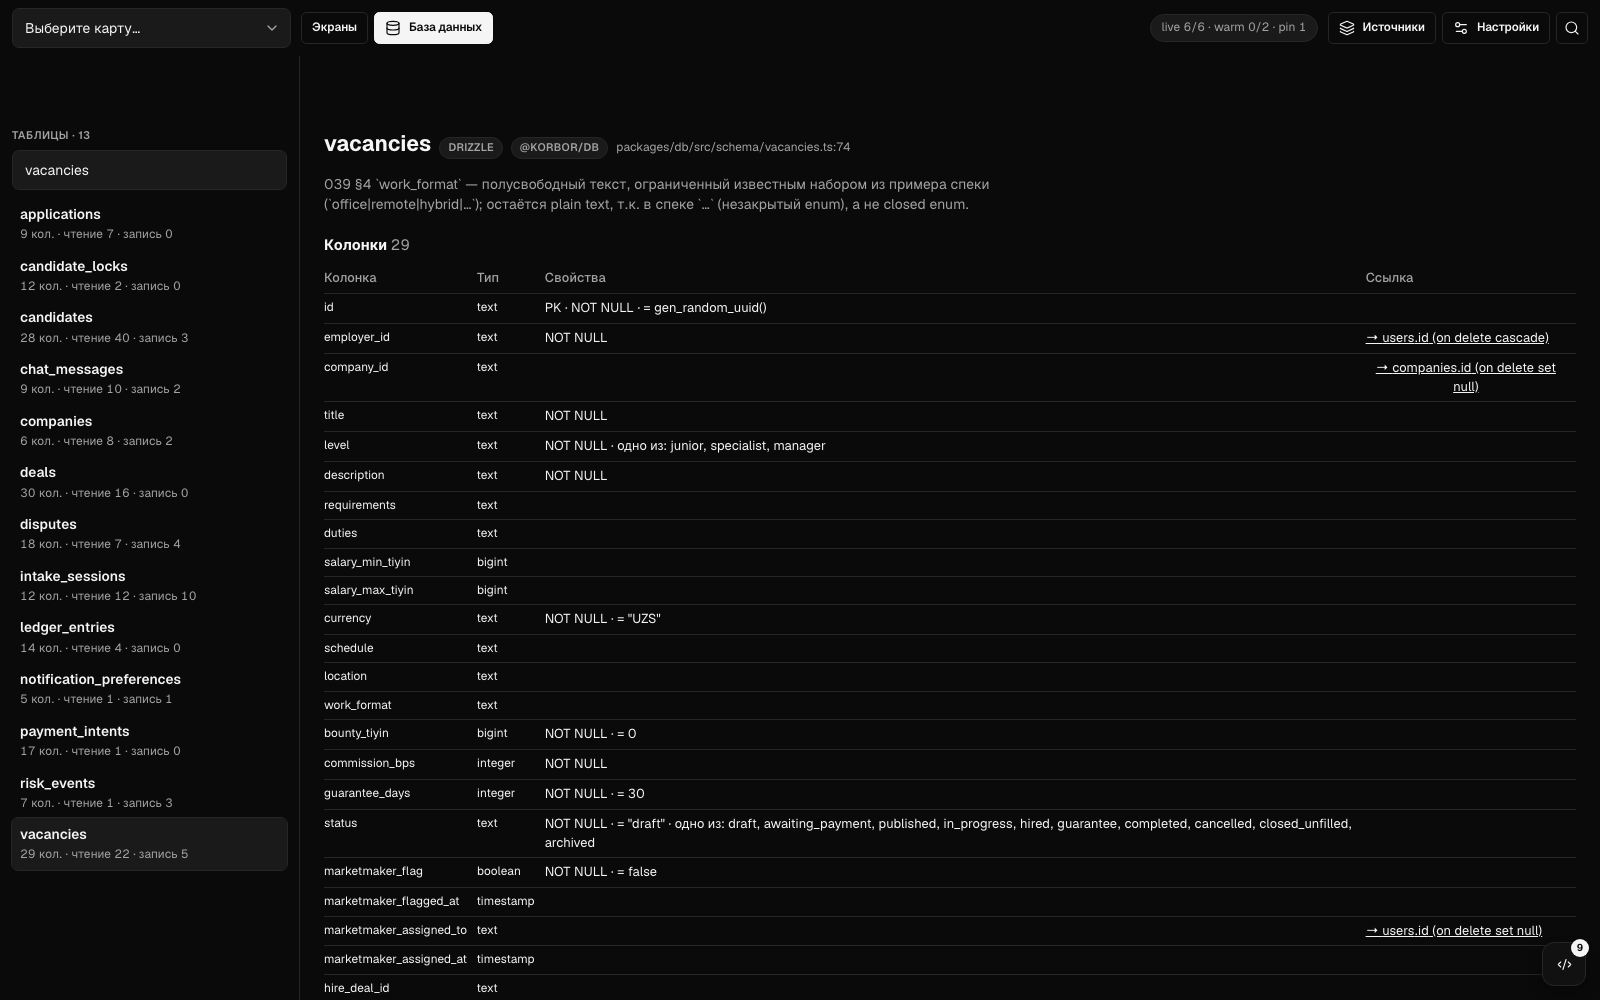
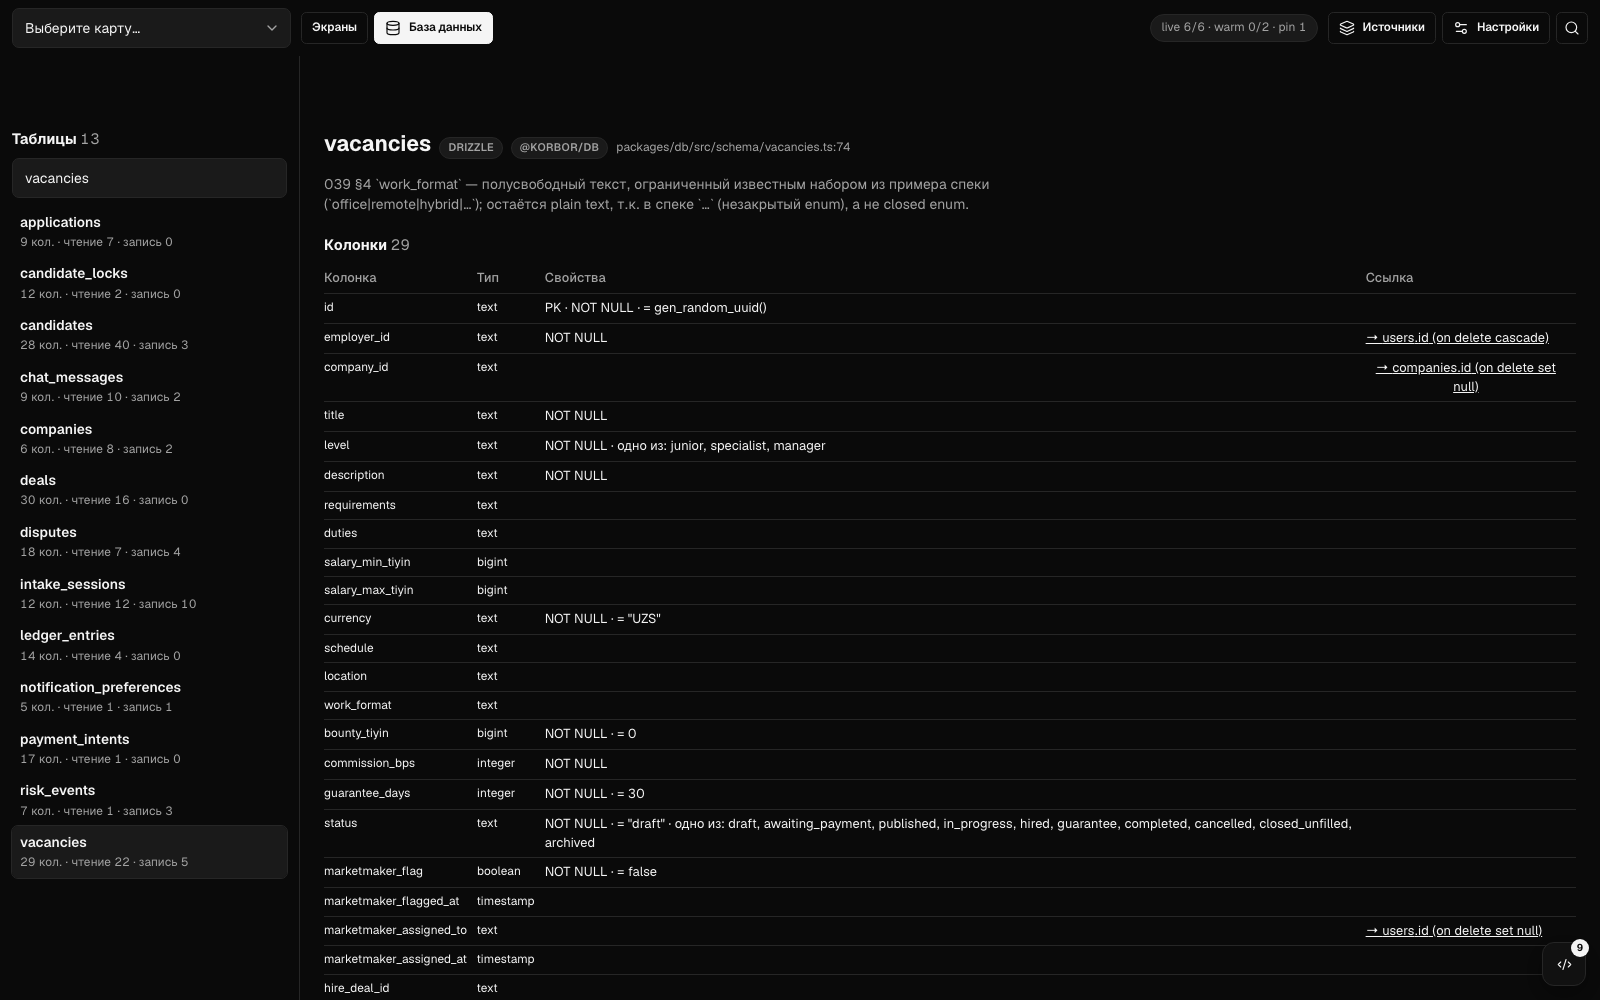
fix(gateway): мини-апп после простоя — не «не авторизован», когда приложение само восстановило вход
Причина 4 ложных «не авторизован» на korbor-miniapp: после простоя
дольше жизни miniapp_access (~15 мин) мини-апп на старте получает
401 /api/v1/auth/web/session, сам обновляет вход (refresh 200, или при
мёртвом refresh — вход по initData профиля, который шлюз освежает) и
грузит данные; скрипт шлюза уже засчитал 401 и не сбрасывал.
- nextAuthState: успешный JSON-ответ API после 401/403 сбрасывает сбои;
  функция встраивается в скрипт страницы текстом (тест исполняет её).
- Кука от сервера вытесняет одноимённые с другим путём: вставленная
  вручную с Path=/ больше не висит рядом с серверной Path=/api/v1.
- Вид «База данных»: «Таблицы 13» — обычный заголовок, не подпись капсом.

Проверено: gateway 28 тестов, tsc. Живьём: employer с истёкшим access —
401→refresh 200→данные, значка нет; мёртвые access и refresh — 401→401→
/auth/telegram/miniapp 200→данные, значка нет; recruiter с испорченным
access на карте korbor-miniapp — 6/6 живых, 0 «не авторизован», свежая
кука записалась в профиль. Свежая загрузка korbor-admin 6/6 и
korbor-miniapp 6/6 — 0 «не авторизован».

Changed region(s): [[0.0, 0.124, 0.125, 0.868]]

diff --git a/apps/visualizer-spa/src/lib/gateway/inject-script.ts b/apps/visualizer-spa/src/lib/gateway/inject-script.ts
@@ -45,6 +45,30 @@ export function isLamPageMessage(data: unknown): data is LamPageMessage {
   );
 }
 
+/** Состояние входа страницы: сколько 401/403 без последующего успеха. */
+export type AuthState = { readonly fails: number; readonly last?: string };
+
+/**
+ * Следующее состояние входа после ответа API. 401/403 — сбой; успешный
+ * JSON-ответ после сбоя — приложение восстановило вход само (обновило
+ * токен через refresh), сбои сбрасываются. Функция встраивается в скрипт
+ * страницы как текст — без замыканий и импортов.
+ *
+ * @param s - текущее состояние
+ * @param status - HTTP-статус
+ * @param path - путь запроса
+ * @param json - ответ в JSON
+ */
+export function nextAuthState(s: AuthState, status: number, path: string, json: boolean): AuthState {
+  if (status === 401 || status === 403) {
+    return { fails: s.fails + 1, last: `${status} ${path.slice(0, 120)}` };
+  }
+  if (s.fails > 0 && status >= 200 && status < 300 && json) {
+    return { fails: 0 };
+  }
+  return s;
+}
+
 /**
  * Текст скрипта.
  *
@@ -57,15 +81,15 @@ export function injectScript(storage: Readonly<Record<string, string>>, profile:
   const json = (v: unknown): string => JSON.stringify(v).replace(/<\//g, '<\\/');
   return `<script data-lam-gateway>(function(){
 var S=${json(storage)};try{for(var k in S){sessionStorage.setItem(k,S[k]);}}catch(e){}
-var P=${json(profile)},H=${hasSession ? 'true' : 'false'},fails=0,last;
+var P=${json(profile)},H=${hasSession ? 'true' : 'false'},A={fails:0},next=${nextAuthState.toString()};
 function contentH(){var d=document.documentElement,b=document.body,h=Math.max(d.offsetHeight,b?b.scrollHeight:0,b?b.offsetHeight:0),x=0,all=b?b.getElementsByTagName('*'):[];
 for(var i=0;i<all.length&&i<5000;i++){var e=all[i];if(e.scrollHeight>e.clientHeight+8&&e.clientHeight>0){var o=getComputedStyle(e).overflowY;if(o==='auto'||o==='scroll'){x=Math.max(x,e.scrollHeight-e.clientHeight);}}}return Math.ceil(h+x);}
-function post(){try{parent.postMessage({lam:'page',href:location.href,contentHeight:contentH(),viewportHeight:innerHeight,authFailures:fails,lastAuthFailure:last,profile:P,hasSession:H},'*');}catch(e){}}
+function post(){try{parent.postMessage({lam:'page',href:location.href,contentHeight:contentH(),viewportHeight:innerHeight,authFailures:A.fails,lastAuthFailure:A.last,profile:P,hasSession:H},'*');}catch(e){}}
 var t;function soon(){clearTimeout(t);t=setTimeout(post,120);}
-function note(s,u){if(s===401||s===403){fails++;last=s+' '+String(u).replace(location.origin,'').slice(0,120);soon();}}
-var f=window.fetch;if(f){window.fetch=function(i,o){return f.apply(this,arguments).then(function(r){note(r.status,r.url);return r;});};}
+function note(s,u,ct){var b=A;A=next(A,s,String(u).replace(location.origin,''),/json/i.test(ct||''));if(A!==b)soon();}
+var f=window.fetch;if(f){window.fetch=function(i,o){return f.apply(this,arguments).then(function(r){note(r.status,r.url,r.headers.get('content-type'));return r;});};}
 var X=XMLHttpRequest.prototype,op=X.open,sd=X.send;X.open=function(m,u){this.__lamU=u;return op.apply(this,arguments);};
-X.send=function(){var x=this;x.addEventListener('loadend',function(){note(x.status,x.__lamU);});return sd.apply(this,arguments);};
+X.send=function(){var x=this;x.addEventListener('loadend',function(){note(x.status,x.__lamU,x.getResponseHeader('content-type'));});return sd.apply(this,arguments);};
 var ps=history.pushState,rs=history.replaceState;history.pushState=function(){var r=ps.apply(this,arguments);soon();return r;};history.replaceState=function(){var r=rs.apply(this,arguments);soon();return r;};
 addEventListener('popstate',soon);addEventListener('hashchange',soon);addEventListener('load',post);addEventListener('message',function(e){if(e.data&&e.data.lam==='ping')post();});
 function watch(){if(!document.body){return setTimeout(watch,50);}try{new ResizeObserver(soon).observe(document.body);new MutationObserver(soon).observe(document.body,{childList:true,subtree:true});}catch(e){setInterval(post,1000);}post();}watch();

diff --git a/apps/visualizer-spa/src/lib/gateway/inject-script.test.ts b/apps/visualizer-spa/src/lib/gateway/inject-script.test.ts
@@ -1,0 +1,32 @@
+/**
+ * Состояние входа страницы: 401 при старте, который приложение само
+ * исправило через refresh, не делает экран «не авторизован».
+ */
+import { describe, expect, test } from 'bun:test';
+import { injectScript, nextAuthState, type AuthState } from './inject-script';
+
+function run(events: Array<[number, string, boolean]>): AuthState {
+  return events.reduce<AuthState>((s, [status, path, json]) => nextAuthState(s, status, path, json), { fails: 0 });
+}
+
+describe('nextAuthState', () => {
+  test('401 → refresh 200 → данные: вход восстановлен, сбоев нет', () => {
+    expect(run([[401, '/api/v1/auth/web/session', true], [401, '/api/v1/auth/web/session', true], [200, '/api/v1/auth/web/refresh', true], [200, '/api/v1/employer/vacancies', true]])).toEqual({ fails: 0 });
+  });
+
+  test('401 без последующего успеха — не авторизован, последний путь в подсказке', () => {
+    expect(run([[200, '/api/v1/config', true], [401, '/api/v1/me', true]])).toEqual({ fails: 1, last: '401 /api/v1/me' });
+  });
+
+  test('успех не-JSON (картинка, модуль) не считается восстановлением', () => {
+    expect(run([[403, '/api/v1/admin', true], [200, '/logo.png', false]]).fails).toBe(1);
+  });
+
+  test('функция встраивается в скрипт страницы и там работает', () => {
+    const script = injectScript({}, 'recruiter', true);
+    const src = /next=(function[\s\S]*?\n\})[;,]/.exec(script)?.[1] ?? /next=(function[^;]*?\})[;,]/.exec(script)?.[1];
+    expect(src).toBeDefined();
+    const fn = new Function(`return (${src ?? ''})`)() as typeof nextAuthState;
+    expect(fn(fn({ fails: 0 }, 401, '/a', true), 200, '/b', true)).toEqual({ fails: 0 });
+  });
+});

diff --git a/apps/visualizer-spa/src/components/DatabaseView.tsx b/apps/visualizer-spa/src/components/DatabaseView.tsx
@@ -8,7 +8,7 @@ import type { DbColumn } from '@live-app-map/schema';
 import { dbIndexOf, tableRows, tableView, type RouteUse } from '../lib/db-view-model';
 import { useAppStore } from '../store/app-store';
 import { useViewStore } from '../store/view-store';
-import { Badge, Field, Input } from '../ui';
+import { Badge, Input } from '../ui';
 
 /** Признаки колонки одной строкой: PK, NOT NULL, UNIQUE, default, enum. */
 function columnFlags(c: DbColumn): string {
@@ -90,9 +90,10 @@ export function DatabaseView() {
   return (
     <div className="db-view" data-testid="database-view">
       <aside className="db-view__list">
-        <Field label={`Таблицы · ${rows.length}`} htmlFor="db-search">
-          <Input id="db-search" value={query} placeholder="Таблица, колонка, описание" onChange={(e) => setQuery(e.target.value)} />
-        </Field>
+        <h3 className="db-view__list-title">
+          Таблицы <span className="db-view__count">{rows.length}</span>
+        </h3>
+        <Input id="db-search" aria-label="Поиск таблиц" value={query} placeholder="Таблица, колонка, описание" onChange={(e) => setQuery(e.target.value)} />
         <ul>
           {rows.map((r) => (
             <li key={r.exportName}>

diff --git a/apps/visualizer-spa/src/lib/gateway/cookie-jar.ts b/apps/visualizer-spa/src/lib/gateway/cookie-jar.ts
@@ -60,11 +60,16 @@ export function parseSetCookie(header: string, now: number): StoredCookie | null
  */
 export function mergeSetCookies(jar: readonly StoredCookie[], setCookies: readonly string[], now: number): StoredCookie[] {
   const byKey = new Map(jar.map((c) => [`${c.name}|${c.path}`, c]));
-  for (const h of setCookies) {
-    const c = parseSetCookie(h, now);
-    if (c !== null) {
-      byKey.set(`${c.name}|${c.path}`, c);
+  const fresh = setCookies.flatMap((h) => parseSetCookie(h, now) ?? []);
+  // Сервер главнее: его кука вытесняет одноимённые с другим путём (например, вставленную вручную с Path=/).
+  const serverNames = new Set(fresh.map((c) => c.name));
+  for (const [key, c] of byKey) {
+    if (serverNames.has(c.name)) {
+      byKey.delete(key);
     }
+  }
+  for (const c of fresh) {
+    byKey.set(`${c.name}|${c.path}`, c);
   }
   return [...byKey.values()].filter((c) => c.expiresAt === undefined || c.expiresAt > now);
 }

diff --git a/apps/visualizer-spa/src/lib/gateway/cookie-jar.test.ts b/apps/visualizer-spa/src/lib/gateway/cookie-jar.test.ts
@@ -16,6 +16,12 @@ describe('cookie-jar', () => {
     expect(jar.map((c) => c.name)).toEqual(['sid']);
   });
 
+  test('кука сервера вытесняет одноимённую с другим путём (вставленную вручную)', () => {
+    const pasted = mergeSetCookies([], ['miniapp_access=stale; Path=/'], NOW);
+    const jar = mergeSetCookies(pasted, ['miniapp_access=fresh; Path=/api/v1; Max-Age=900'], NOW);
+    expect(jar.map((c) => [c.name, c.value, c.path])).toEqual([['miniapp_access', 'fresh', '/api/v1']]);
+  });
+
   test('Cookie: браузерные куки главнее, банка добавляет недостающие по пути, истёкшие не идут', () => {
     const jar = mergeSetCookies([], ['sid=jar; Path=/', 'api=1; Path=/api', 'old=1; Path=/; Expires=Thu, 01 Jan 2020 00:00:00 GMT'], NOW);
     expect(cookieHeaderFor('sid=browser', jar, '/api/v1/me', NOW)).toBe('sid=browser; api=1');

diff --git a/apps/visualizer-spa/src/styles/global.css b/apps/visualizer-spa/src/styles/global.css
@@ -1431,3 +1431,4 @@ kbd,
 .page-node { overflow: clip; }
 .page-node__viewport-bar { flex-wrap: nowrap; overflow-x: auto; scrollbar-width: none; flex: 0 0 auto; }
 .page-node__vp-btn { flex: none; }
+.db-view__list-title { font-size: 15px; margin: 0 0 8px; }
